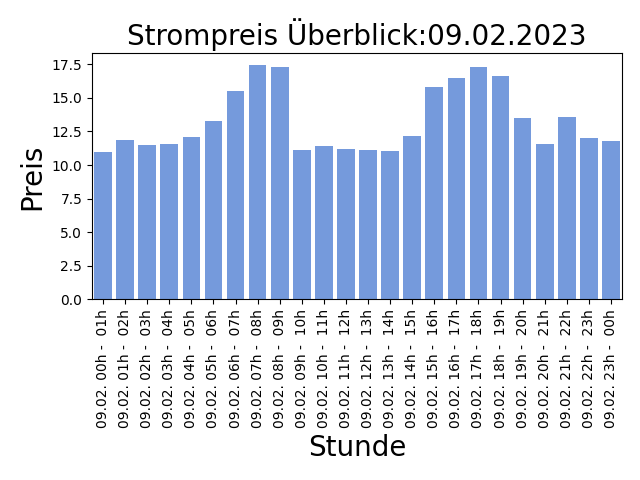
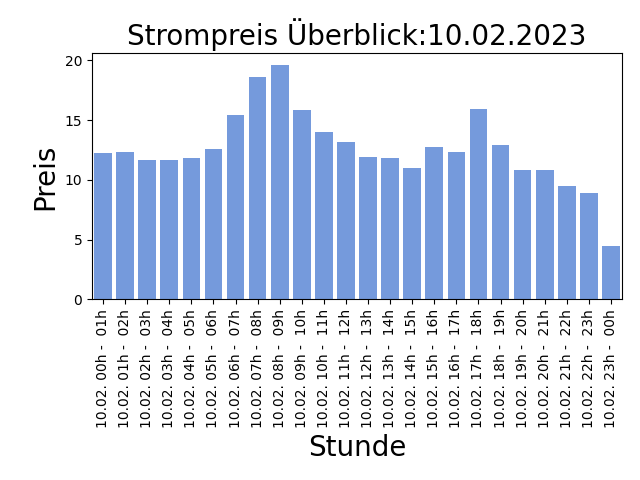
AUTOMATIC UPDATE PRICE LIST: 2023-02-09-14:30:06

diff --git a/README.md b/README.md
@@ -1,5 +1,5 @@
 
-## Strompreise für den 09.02.2023
+## Strompreise für den 10.02.2023
 
 Niedrige Preise deuten auf viel Sonnen und Windenergieerzeugung hin, ein hoher Anteil an erneuerbaren Energien bedeuted weniger CO2 Verbrauch!
 
@@ -7,31 +7,31 @@ Niedrige Preise deuten auf viel Sonnen und Windenergieerzeugung hin, ein hoher A
 
 | Stunde | Preis in Cent/kWh |
 |---|---|
-| **09.02. 00h -  01h** | **10.956** | 
-| 09.02. 01h -  02h | 11.836 | 
-| 09.02. 02h -  03h | 11.512 | 
-| 09.02. 03h -  04h | 11.546 | 
-| 09.02. 04h -  05h | 12.047 | 
-| 09.02. 05h -  06h | 13.257 | 
-| 09.02. 06h -  07h | 15.524000000000001 | 
-| 09.02. 07h -  08h | 17.446 | 
-| 09.02. 08h -  09h | 17.302 | 
-| 09.02. 09h -  10h | 11.136 | 
-| 09.02. 10h -  11h | 11.401 | 
-| 09.02. 11h -  12h | 11.177 | 
-| 09.02. 12h -  13h | 11.118 | 
-| 09.02. 13h -  14h | 11.019 | 
-| 09.02. 14h -  15h | 12.145999999999999 | 
-| 09.02. 15h -  16h | 15.791 | 
-| 09.02. 16h -  17h | 16.503999999999998 | 
-| 09.02. 17h -  18h | 17.325 | 
-| 09.02. 18h -  19h | 16.633000000000003 | 
-| 09.02. 19h -  20h | 13.488999999999999 | 
-| 09.02. 20h -  21h | 11.577 | 
-| 09.02. 21h -  22h | 13.577000000000002 | 
-| 09.02. 22h -  23h | 11.993 | 
-| 09.02. 23h -  00h | 11.795 | 
+| 10.02. 00h -  01h | 12.269 | 
+| 10.02. 01h -  02h | 12.309000000000001 | 
+| 10.02. 02h -  03h | 11.632 | 
+| 10.02. 03h -  04h | 11.67 | 
+| 10.02. 04h -  05h | 11.851 | 
+| 10.02. 05h -  06h | 12.547 | 
+| 10.02. 06h -  07h | 15.399000000000001 | 
+| 10.02. 07h -  08h | 18.591 | 
+| 10.02. 08h -  09h | 19.622999999999998 | 
+| 10.02. 09h -  10h | 15.872 | 
+| 10.02. 10h -  11h | 14.035 | 
+| 10.02. 11h -  12h | 13.168000000000001 | 
+| 10.02. 12h -  13h | 11.884 | 
+| 10.02. 13h -  14h | 11.794 | 
+| 10.02. 14h -  15h | 11.012 | 
+| 10.02. 15h -  16h | 12.795 | 
+| 10.02. 16h -  17h | 12.376000000000001 | 
+| 10.02. 17h -  18h | 15.893 | 
+| 10.02. 18h -  19h | 12.955000000000002 | 
+| 10.02. 19h -  20h | 10.829 | 
+| 10.02. 20h -  21h | 10.826 | 
+| 10.02. 21h -  22h | 9.466 | 
+| 10.02. 22h -  23h | 8.919 | 
+| **10.02. 23h -  00h** | **4.5** | 
 
 Preise der EPEX Spot ® Strombörse (neue Preise werden täglich um 14:00 veröffentlicht für den kompletten nächsten Tag).
 
-letzte Aktualisierung:08.02.2023 14:30
+letzte Aktualisierung:09.02.2023 14:30
